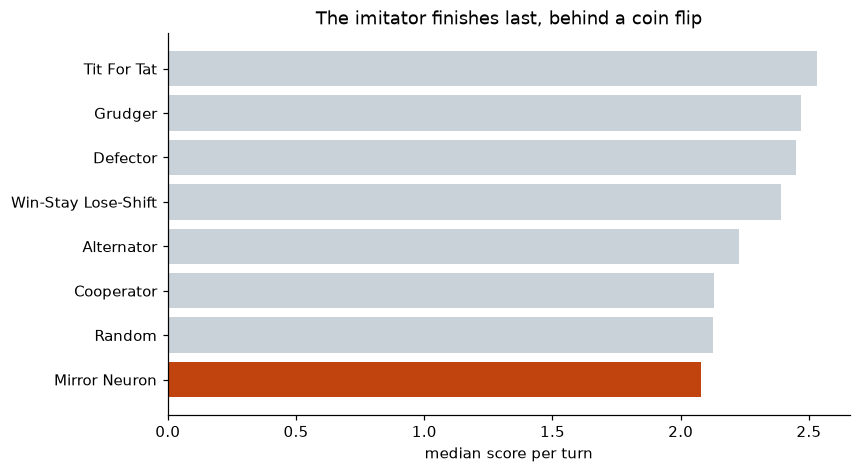
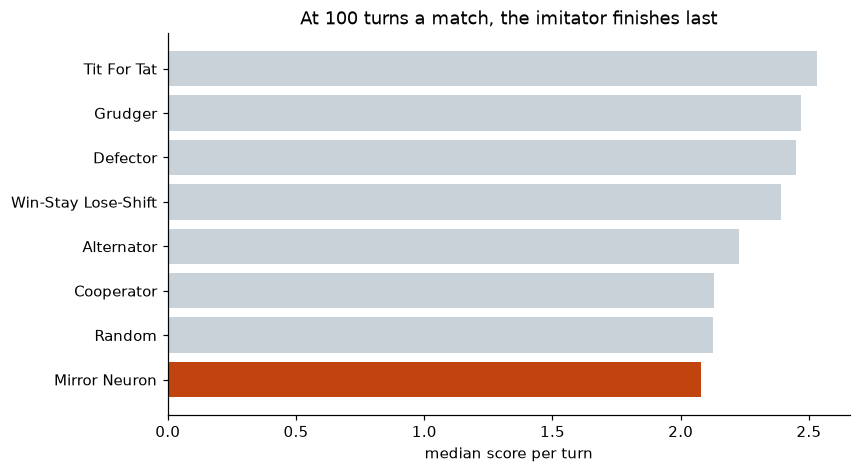
Qualify "behind a coin flip" by the length it holds at
The standing was quoted at one match length as though it were the result. It
is not: the agent is worst at 20 turns, scoring 2.000 against the coin flip's
2.211, stays last through 100, passes the coin flip by 200 and reaches sixth
by 500. A reader could have falsified the headline by changing one line of
config, which is the failure this repository keeps finding in its own sources.

The reversal is not the agent improving. It freezes: in the closing turns of a
500 turn match it plays a constant against six of the seven opponents,
cooperating with the cooperative and defecting against the rest, because
frequency matching converges on whatever the opponent plays most. A constant
beats a coin flip against a field of reciprocators. Alternator is the one
opponent it never freezes against, since alternating holds its counts level.

Measured across seven match lengths and committed as a sixth CSV, so the
qualification is backed by an artifact rather than by this message.

Changed region(s): [[0.3326, 0.0, 0.8465, 0.0592]]

diff --git a/index.fr.html b/index.fr.html
@@ -66,6 +66,16 @@
     Augmenter le taux d'apprentissage ne la rachète pas.
   </p>
   <p>
+    La durée d'un match décide du classement : une seule longueur ne fait donc
+    pas le résultat. L'agent est au plus bas à 20 tours, avec 2,000 contre 2,211
+    pour le tirage à pile ou face, et reste dernier jusqu'à 100. À 500 il est
+    sixième et c'est le tirage qui ferme la marche, non qu'il ait appris quoi
+    que ce soit, mais parce qu'il s'est arrêté : dans les derniers tours d'un
+    long match il est figé face à six des sept adversaires, coopérant toujours
+    avec les coopératifs et trahissant toujours les autres. Face à un plateau
+    de joueurs réciproques, une constante vaut mieux qu'une pièce lancée.
+  </p>
+  <p>
     Le tournoi est un toutes rondes : huit joueurs, chacun affrontant tous les
     autres et lui-même sur 100 tours, répété 20 fois car deux d'entre eux
     tirent leurs coups au hasard. Les gains sont les gains classiques, 3 pour la

diff --git a/index.html b/index.html
@@ -65,6 +65,16 @@
     player. Raising the learning rate does not buy it back.
   </p>
   <p>
+    How long a match runs decides the standing, so one length on its own is not
+    the result. The agent is worst at 20 turns, scoring 2.000 against the coin
+    flip's 2.211, and stays last through 100. By 500 it is sixth and the coin
+    flip is last, not because it has learned anything but because it has
+    stopped: in the closing turns of a long match it is frozen against six of
+    the seven opponents, cooperating always with the cooperative ones and
+    defecting always against the rest. A constant is worth more than a coin
+    flip to a field full of reciprocators.
+  </p>
+  <p>
     The tournament is a round robin: eight players, each meeting every other and
     itself over 100 turns, repeated 20 times because two of them draw their
     moves at random. Payoffs are the standard 3 for mutual cooperation, 1 for

diff --git a/mirror_neurons/plot_results.py b/mirror_neurons/plot_results.py
@@ -69,6 +69,23 @@ def plot_learning_rate_sweep():
     save(figure, "learning_rate_sweep.png")
 
 
+def plot_match_length():
+    """Where "behind a coin flip" stops being true, and why that is not progress."""
+    rows = read("match_length_sweep.csv")
+    turns = [int(row["turns"]) for row in rows]
+    figure, axes = plt.subplots()
+    axes.plot(turns, [float(row["agent_median_score"]) for row in rows],
+              marker="o", color="#c1440e", label="Mirror Neuron")
+    axes.plot(turns, [float(row["random_median_score"]) for row in rows],
+              marker="o", color="#6e7781", label="Random")
+    axes.set_xscale("log")
+    axes.set_xlabel("turns per match")
+    axes.set_ylabel("median score per turn")
+    axes.set_title("The imitator overtakes the coin flip only by freezing")
+    axes.legend(frameon=False)
+    save(figure, "match_length_sweep.png")
+
+
 def plot_standings():
     """Eighth of eight, which is the finding rather than the failure."""
     rows = list(reversed(read("standings.csv")))
@@ -77,12 +94,13 @@ def plot_standings():
     axes.barh(names, [float(row["median_score"]) for row in rows],
               color=["#c1440e" if name == AGENT else "#c9d1d9" for name in names])
     axes.set_xlabel("median score per turn")
-    axes.set_title("The imitator finishes last, behind a coin flip")
+    axes.set_title("At 100 turns a match, the imitator finishes last")
     save(figure, "standings.png")
 
 
 if __name__ == "__main__":
     plot_decay()
+    plot_match_length()
     plot_learning_rate_sweep()
     plot_standings()
-    print(f"wrote 3 figures to {RESULTS}")
+    print(f"wrote 4 figures to {RESULTS}")

diff --git a/mirror_neurons/measurements.py b/mirror_neurons/measurements.py
@@ -111,6 +111,36 @@ def learning_rate_sweep():
     return rows
 
 
+"""Match lengths to sweep. 20 is the horizon most of the report's own reading
+sits at, and 500 is long enough for the agent to have frozen against almost
+every opponent."""
+MATCH_LENGTHS = [5, 10, 20, 50, 100, 200, 500]
+
+
+def match_length_sweep():
+    """Whether finishing last survives changing how long a match is.
+
+    It does not, and the reversal is the point. The agent saturates into a
+    constant player, and a constant is worth more than a coin flip against a
+    field full of reciprocators, so its ranking improves with length for a
+    reason that has nothing to do with reciprocating.
+    """
+    rows = []
+    for turns in MATCH_LENGTHS:
+        players = [MirrorNeuronPlayer()] + [s() for s in OPPONENTS]
+        plain_name = {str(player): player.name for player in players}
+        results = axl.Tournament(players, game=GAME, turns=turns,
+                                 repetitions=REPETITIONS, seed=SEED
+                                 ).play(progress_bar=False)
+        ranked = {plain_name.get(row.Name, row.Name): (row.Rank + 1,
+                                                       row.Median_score)
+                  for row in results.summarise()}
+        agent_rank, agent_score = ranked["Mirror Neuron"]
+        random_rank, random_score = ranked["Random"]
+        rows.append((turns, agent_rank, agent_score, random_rank, random_score))
+    return rows
+
+
 def reciprocity_decay():
     """Where the little reciprocity the agent has actually comes from.
 

diff --git a/mirror_neurons/run_tournament.py b/mirror_neurons/run_tournament.py
@@ -37,6 +37,10 @@ TABLES = [
     ("reciprocity_decay.csv",
      ["player", "from_turn", "to_turn", "reciprocity_index"],
      measurements.reciprocity_decay),
+    ("match_length_sweep.csv",
+     ["turns", "agent_rank", "agent_median_score", "random_rank",
+      "random_median_score"],
+     measurements.match_length_sweep),
 ]
 
 

diff --git a/mirror_neurons/README.md b/mirror_neurons/README.md
@@ -3,9 +3,11 @@
 ![Median score per turn, eight players](results/standings.png)
 
 The report's claim is that Tit-for-Tat emerges from imitation without being
-programmed. Given opponents that react, it does not. **The agent finishes eighth
-of eight, behind a coin flip**, and the reciprocity it appears to have is a
-transient of the opening rounds.
+programmed. Given opponents that react, it does not. **Over matches of 10 to
+100 turns the agent finishes eighth of eight, behind a coin flip**, and the
+reciprocity it appears to have is a transient of the opening rounds. It climbs
+out of last place only in matches several hundred turns long, and then for a
+reason that is not reciprocity at all.
 
 ```sh
 pip install -r requirements.txt
@@ -82,13 +84,25 @@ falls as the match runs. Measured in windows, the agent goes 0.135, 0.108,
 0.017, 0.042 and then **exactly 0.000 from turn 800 onward**, while Tit-for-Tat
 holds 1.000 in every window.
 
-Exactly zero, because the agent saturates. The count difference in what it
-observes is a random walk, and once that walk pushes the log-odds past roughly
-plus or minus 13 the agent becomes a constant player, which is by definition
-unreciprocal. Which constant it becomes is decided by the walk rather than by
-anything either player intends. Raising the learning rate does not help
-([the sweep](results/learning_rate_sweep.png) peaks at 0.13 near `eta = 0.5`):
-it brings the saturation forward as fast as it strengthens the response.
+Exactly zero is saturation, not noise. The counts it observes drift as a random
+walk, and once the log-odds go far enough the agent is a constant player, whose
+two conditional probabilities are identically equal. Raising the learning rate
+does not buy the reciprocity back.
+
+![Median score per turn against match length](results/match_length_sweep.png)
+
+**Which is why the standing depends on how long a match runs, and quoting one
+length as the result was wrong of this write-up.** The agent is worst at **20
+turns**, scoring 2.000 against the coin flip's 2.211, and stays last through
+100. By 200 it has passed the coin flip; by 500 it is sixth and the coin flip
+is last.
+
+That reversal is the agent stopping, not improving. Frequency matching converges
+on whatever the opponent plays most, so it freezes into cooperating with
+cooperators and defecting against defectors, which beats a coin flip against a
+field of reciprocators. A serviceable policy, reached by ceasing to respond, and
+only after hundreds of rounds. The mechanism and the per-opponent freezing are
+in [`design-notes/saturation.md`](design-notes/saturation.md).
 
 None of this touches the idea, which is a reasonable one. Imitation as a Hebbian
 weight update is a plausible mechanism. It is simply not a mechanism for

diff --git a/mirror_neurons/design-notes/saturation.md b/mirror_neurons/design-notes/saturation.md
@@ -1,0 +1,51 @@
+# What happens when the agent stops learning
+
+The closed form says the weight is `w_i(0) * (1 + eta) ** n_i`, so the log-odds
+between cooperating and defecting move by a constant step per observation. What
+the agent sees is not balanced, so those steps accumulate into a random walk,
+and a random walk is unbounded. Past roughly plus or minus 13 in log-odds the
+probability is within a rounding error of 0 or 1 and the agent has become a
+constant player. Nothing pulls it back.
+
+Two measured consequences follow, and they look like opposite results until the
+mechanism is named.
+
+## It loses the reciprocity it starts with
+
+Windowed over a 2000 turn match against a prober, the agent's reciprocity index
+runs 0.135, 0.108, 0.017, 0.042 and then exactly 0.000 for every window from
+turn 800 on. Tit-for-Tat holds 1.000 throughout.
+
+Exactly zero is the signature of saturation rather than of noise: a constant
+player has the same cooperation probability whatever the opponent just did, so
+the difference between the two conditions is not small, it is identically zero.
+
+Raising the learning rate does not buy the reciprocity back. It brings the
+saturation forward as fast as it strengthens the response to any single
+observation, which is why [the sweep](../results/learning_rate_sweep.png) peaks
+around 0.13 near `eta = 0.5` and falls again by `eta = 1.0`.
+
+## And its ranking improves because of it
+
+Which constant it freezes into is not arbitrary. In the last twenty turns of a
+500 turn match:
+
+| Opponent | Agent's closing play |
+|---|---|
+| Tit For Tat, Cooperator, Win-Stay Lose-Shift | always cooperate |
+| Defector, Grudger, Random | always defect |
+| Alternator | still moving, at 0.75 |
+
+Frequency matching converges on whatever the opponent plays most, so it ends up
+cooperating with cooperators and defecting against defectors. Alternator is the
+exception because alternating holds the two counts level, so the walk never
+drifts and the agent never freezes.
+
+That is a serviceable policy, and it is worth more than a coin flip against a
+field of reciprocators, which is why the agent passes Random somewhere between
+100 and 200 turns a match and reaches sixth by 500. **It is not the agent
+learning to reciprocate. It is the agent ceasing to respond at all, and landing
+on a constant that happens to suit the opponent.** It also takes hundreds of
+rounds to arrive, and the horizons the report reads about, and that
+[`../../original/Litterature/`](../../original/Litterature/) reviews, are far
+shorter than that.

diff --git a/README.fr.md b/README.fr.md
@@ -55,7 +55,7 @@ d'Özkes et al. (2024), et le jeu du dictateur des diapositives de soutenance.
 
 | | |
 |---|---|
-| <img src="mirror_neurons/results/standings.png" width="320" alt="L'agent imitateur termine huitième sur huit"> | **[`mirror_neurons/`](mirror_neurons/), lancé et analysé.** Observer une action multiplie son poids puis renormalise, et le rapport attend que le Tit-for-Tat en émerge sans avoir été programmé. Face à sept adversaires issus de la littérature, **il n'en est rien : l'agent termine huitième sur huit, derrière un tirage à pile ou face.** Ce que la mise à jour implémente est un appariement de fréquences, dont l'état tient en un couple de compteurs et ne peut donc pas dépendre du dernier tour. |
+| <img src="mirror_neurons/results/standings.png" width="320" alt="L'agent imitateur termine huitième sur huit"> | **[`mirror_neurons/`](mirror_neurons/), lancé et analysé.** Observer une action multiplie son poids puis renormalise, et le rapport attend que le Tit-for-Tat en émerge sans avoir été programmé. Face à sept adversaires issus de la littérature, **il n'en est rien : sur des matchs de 10 à 100 tours, l'agent termine huitième sur huit, derrière un tirage à pile ou face.** Ce que la mise à jour implémente est un appariement de fréquences, dont l'état tient en un couple de compteurs et ne peut donc pas dépendre du dernier tour. Il ne dépasse le tirage à pile ou face que sur des matchs de plusieurs centaines de tours, en se figeant en joueur constant plutôt qu'en rendant la pareille. |
 | | **[`llm/`](llm/), des fondations.** Homo silicus, que le rapport cite dans sa conclusion sans jamais l'appliquer. Cinq modèles à poids ouverts, localement et hors ligne, sur les mêmes jeux. Rien n'a encore été lancé. |
 
 Les deux sont frères à dessein. Les deux joueurs exposent les deux mêmes

diff --git a/README.md b/README.md
@@ -54,7 +54,7 @@ and the Dictator game from the defence slides.
 
 | | |
 |---|---|
-| <img src="mirror_neurons/results/standings.png" width="320" alt="The imitating agent finishes eighth of eight"> | **[`mirror_neurons/`](mirror_neurons/), run and reported.** Observing an action multiplies its weight and renormalises, and the report expects Tit-for-Tat to fall out of that without being programmed. Given seven opponents from the literature, **it does not: the agent finishes eighth of eight, behind a coin flip.** What the update implements is frequency matching, whose state is a pair of counts and so cannot depend on the last round at all. |
+| <img src="mirror_neurons/results/standings.png" width="320" alt="The imitating agent finishes eighth of eight"> | **[`mirror_neurons/`](mirror_neurons/), run and reported.** Observing an action multiplies its weight and renormalises, and the report expects Tit-for-Tat to fall out of that without being programmed. Given seven opponents from the literature, **it does not: over matches of 10 to 100 turns the agent finishes eighth of eight, behind a coin flip.** What the update implements is frequency matching, whose state is a pair of counts and so cannot depend on the last round at all. It passes the coin flip only in matches of several hundred turns, by freezing into a constant player rather than by reciprocating. |
 | | **[`llm/`](llm/), scaffolding.** Homo silicus, which the report cites in its conclusion without ever running. Five open-weight models, locally and offline, on the same games. Nothing has been run yet. |
 
 The two are siblings on purpose. Both players expose the same two calls, so one

diff --git a/mirror_neurons/design-notes/README.md b/mirror_neurons/design-notes/README.md
@@ -9,6 +9,7 @@ carrying.
 | [`opponents-and-games.md`](opponents-and-games.md) | Which games and which opponents, and where each comes from in the internship's own literature |
 | [`what-the-agent-cannot-do.md`](what-the-agent-cannot-do.md) | The two places the model does not reach, sorted by what the agent has to observe |
 | [`measuring-reciprocity.md`](measuring-reciprocity.md) | Why the first measure was retired, and the two ways its replacement can still mislead |
+| [`saturation.md`](saturation.md) | Why the agent stops responding, and why that makes its ranking climb with match length |
 | [`what-the-rerun-corrected.md`](what-the-rerun-corrected.md) | What was wrong with the original simulation, and the claims it does not support |
 
 The short version: the iterated Prisoner's Dilemma needs no modelling decision
